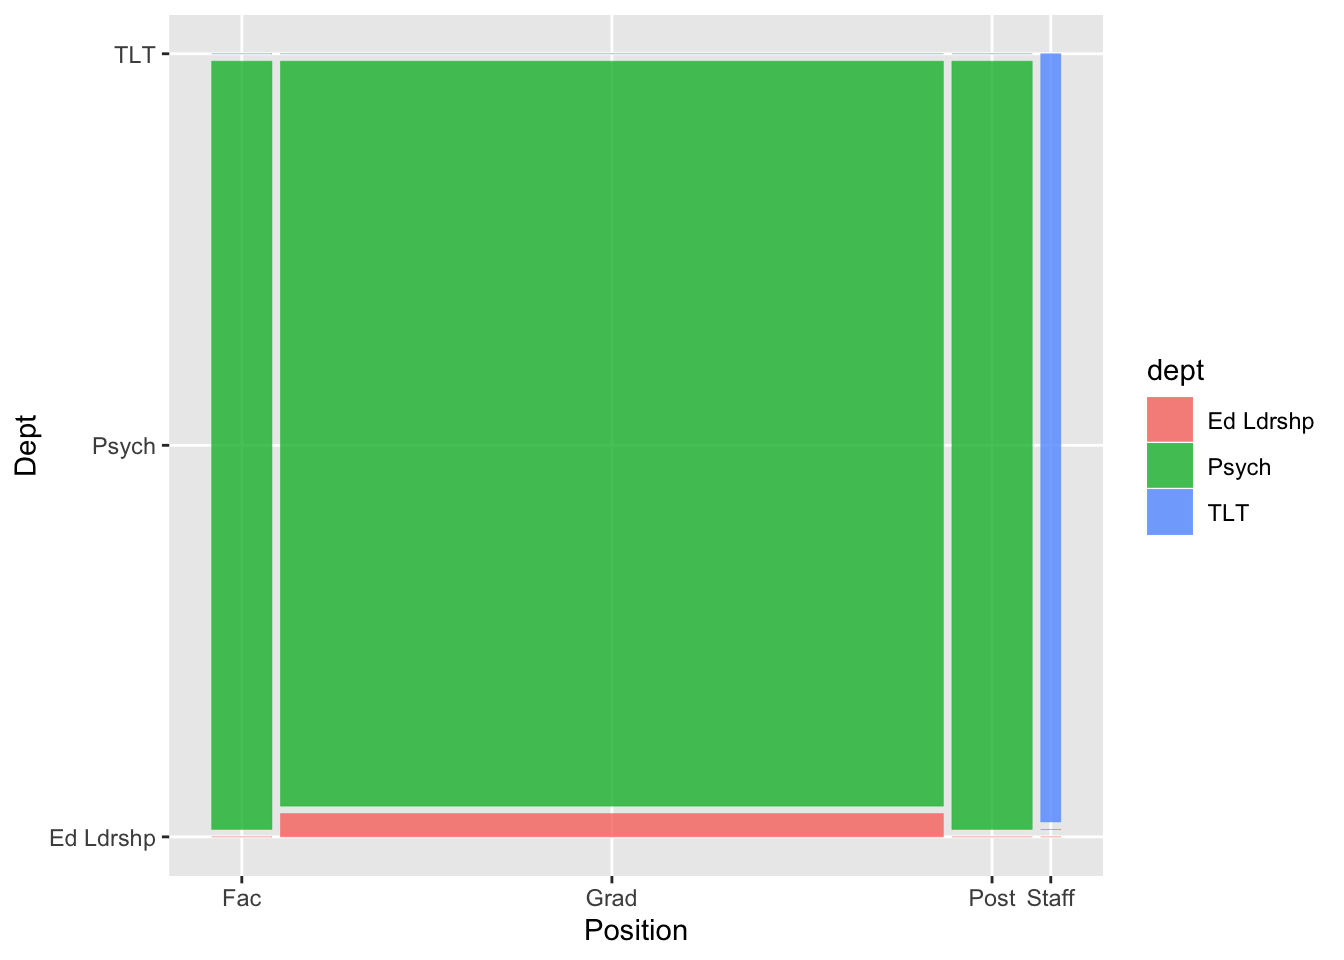
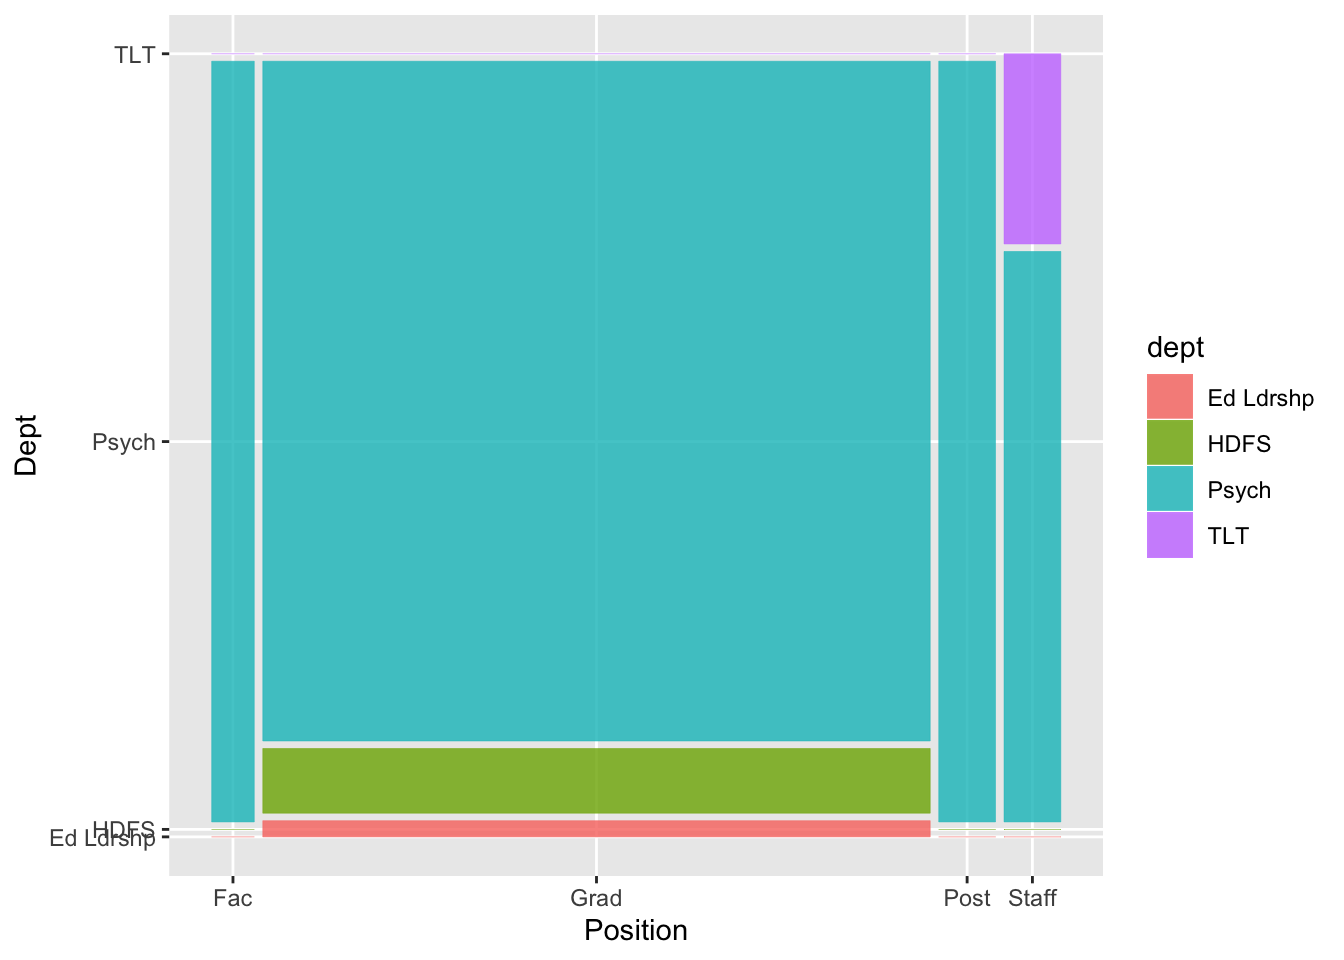
Regenerate registration #s, add coaches

diff --git a/docs/index.html b/docs/index.html
@@ -331,7 +331,7 @@ $(document).ready(function () {
 </div>
 <div id="student-coaches" class="section level2">
 <h2>Student Coaches</h2>
-<p>TBA</p>
+<p>Dan Albohn, dna5021 AT-SIGN psu PERIOD edu Kayla Brown, kwb5191 AT-SIGN psu PERIOD edu</br> Rebecca Janis, ruj134 AT-SIGN psu PERIOD edu</br> Yiming Qian, yxq5055 AT-SIGN psu PERIOD edu</br> Alicia Vallorani, amvalloranipsu AT-SIGN gmail PERIOD com</br> Holly Zaharchuk, hzaharchuk AT-SIGN psu PERIOD edu</p>
 </div>
 <div id="meeting-times-and-location" class="section level2">
 <h2>Meeting times and location</h2>
@@ -345,8 +345,8 @@ $(document).ready(function () {
 </div>
 <div id="whos-registered" class="section level2">
 <h2>Who’s registered?</h2>
-<p>Here are some data about the registrants as of 2019-07-19 15:46:03:</p>
-<p>We have 41 people registered so far. The following table and mosaic plot tell us a bit about them. (These data and graphs are generated from the GoogleSheet you completed to register. The are processed entirely in an R-based workflow that updates automatically everytime we regenerate this website.)</p>
+<p>Here are some data about the registrants as of 2019-07-24 09:20:50:</p>
+<p>We have 58 people registered so far. The following table and mosaic plot tell us a bit about them. (These data and graphs are generated from the GoogleSheet you completed to register. The are processed entirely in an R-based workflow that updates automatically everytime we regenerate this website.)</p>
 <pre class="r"><code># Table
 pos_dept &lt;- xtabs(formula = ~ position + dept, data = cd_new)
 knitr::kable(pos_dept)</code></pre>
@@ -355,6 +355,7 @@ knitr::kable(pos_dept)</code></pre>
 <tr class="header">
 <th></th>
 <th align="right">Ed Ldrshp</th>
+<th align="right">HDFS</th>
 <th align="right">Psych</th>
 <th align="right">TLT</th>
 </tr>
@@ -363,17 +364,20 @@ knitr::kable(pos_dept)</code></pre>
 <tr class="odd">
 <td>Fac</td>
 <td align="right">0</td>
+<td align="right">0</td>
 <td align="right">3</td>
 <td align="right">0</td>
 </tr>
 <tr class="even">
 <td>Grad</td>
 <td align="right">1</td>
-<td align="right">32</td>
+<td align="right">4</td>
+<td align="right">42</td>
 <td align="right">0</td>
 </tr>
 <tr class="odd">
 <td>Post</td>
+<td align="right">0</td>
 <td align="right">0</td>
 <td align="right">4</td>
 <td align="right">0</td>
@@ -382,6 +386,7 @@ knitr::kable(pos_dept)</code></pre>
 <td>Staff</td>
 <td align="right">0</td>
 <td align="right">0</td>
+<td align="right">3</td>
 <td align="right">1</td>
 </tr>
 </tbody>
@@ -394,7 +399,7 @@ knitr::kable(pos_dept)</code></pre>
 <div id="what-to-bring" class="section level3">
 <h3>What to bring</h3>
 <p>We ask that you bring an open mind, enthusiasm, and a willingness to ask questions even if they seem trivial. The classrooms we have chosen for the bootcamp have computers with Windows 10, so you do <em>not</em> need to bring your own computer. We will use a standard computing environment set up for your use that takes advantage of the RStudio Server program. This means that RStudio will run in your web browser.</p>
-<p>You <em>will</em> need to make sure that you can log on to the PSU system using your Penn State Access ID (e.g., rog1).</p>
+<p>You <em>will</em> need to make sure that you can log on to the PSU system using your Penn State Access ID (e.g., <code>rog1</code>).</p>
 </div>
 <div id="laptop-users" class="section level3">
 <h3>Laptop users</h3>

diff --git a/docs/schedule.html b/docs/schedule.html
@@ -7,6 +7,7 @@
 <meta charset="utf-8" />
 <meta http-equiv="Content-Type" content="text/html; charset=utf-8" />
 <meta name="generator" content="pandoc" />
+<meta http-equiv="X-UA-Compatible" content="IE=EDGE" />
 
 
 
@@ -248,56 +249,12 @@ $(document).ready(function () {
 }
 </style>
 
-<script>
-$(document).ready(function () {
-  window.buildTabsets("TOC");
-});
-
-$(document).ready(function () {
-  $('.tabset-dropdown > .nav-tabs > li').click(function () {
-    $(this).parent().toggleClass('nav-tabs-open')
-  });
-});
-</script>
-
 <!-- code folding -->
 <style type="text/css">
 .code-folding-btn { margin-bottom: 4px; }
 </style>
-<script>
-$(document).ready(function () {
-  window.initializeCodeFolding("hide" === "show");
-});
-</script>
 
 
-
-<script>
-$(document).ready(function ()  {
-
-    // move toc-ignore selectors from section div to header
-    $('div.section.toc-ignore')
-        .removeClass('toc-ignore')
-        .children('h1,h2,h3,h4,h5').addClass('toc-ignore');
-
-    // establish options
-    var options = {
-      selectors: "h1,h2",
-      theme: "bootstrap3",
-      context: '.toc-content',
-      hashGenerator: function (text) {
-        return text.replace(/[.\\/?&!#<>]/g, '').replace(/\s/g, '_').toLowerCase();
-      },
-      ignoreSelector: ".toc-ignore",
-      scrollTo: 0
-    };
-    options.showAndHide = true;
-    options.smoothScroll = true;
-
-    // tocify
-    var toc = $("#TOC").tocify(options).data("toc-tocify");
-});
-</script>
 
 <style type="text/css">
 
@@ -622,6 +579,54 @@ $(document).ready(function () {
 });
 
 
+</script>
+
+<!-- tabsets -->
+
+<script>
+$(document).ready(function () {
+  window.buildTabsets("TOC");
+});
+
+$(document).ready(function () {
+  $('.tabset-dropdown > .nav-tabs > li').click(function () {
+    $(this).parent().toggleClass('nav-tabs-open')
+  });
+});
+</script>
+
+<!-- code folding -->
+<script>
+$(document).ready(function () {
+  window.initializeCodeFolding("hide" === "show");
+});
+</script>
+
+<script>
+$(document).ready(function ()  {
+
+    // move toc-ignore selectors from section div to header
+    $('div.section.toc-ignore')
+        .removeClass('toc-ignore')
+        .children('h1,h2,h3,h4,h5').addClass('toc-ignore');
+
+    // establish options
+    var options = {
+      selectors: "h1,h2",
+      theme: "bootstrap3",
+      context: '.toc-content',
+      hashGenerator: function (text) {
+        return text.replace(/[.\\/?&!#<>]/g, '').replace(/\s/g, '_').toLowerCase();
+      },
+      ignoreSelector: ".toc-ignore",
+      scrollTo: 0
+    };
+    options.showAndHide = true;
+    options.smoothScroll = true;
+
+    // tocify
+    var toc = $("#TOC").tocify(options).data("toc-tocify");
+});
 </script>
 
 <!-- dynamically load mathjax for compatibility with self-contained -->

diff --git a/docs/rstudio-tlt.html b/docs/rstudio-tlt.html
@@ -387,7 +387,7 @@ div.tocify {
 
 <h1 class="title toc-ignore">Using RStudio Server @ Penn State</h1>
 <h4 class="author">Rick Gilmore</h4>
-<h4 class="date">2019-07-19 15:46:14</h4>
+<h4 class="date">2019-07-24 09:21:00</h4>
 
 </div>
 
